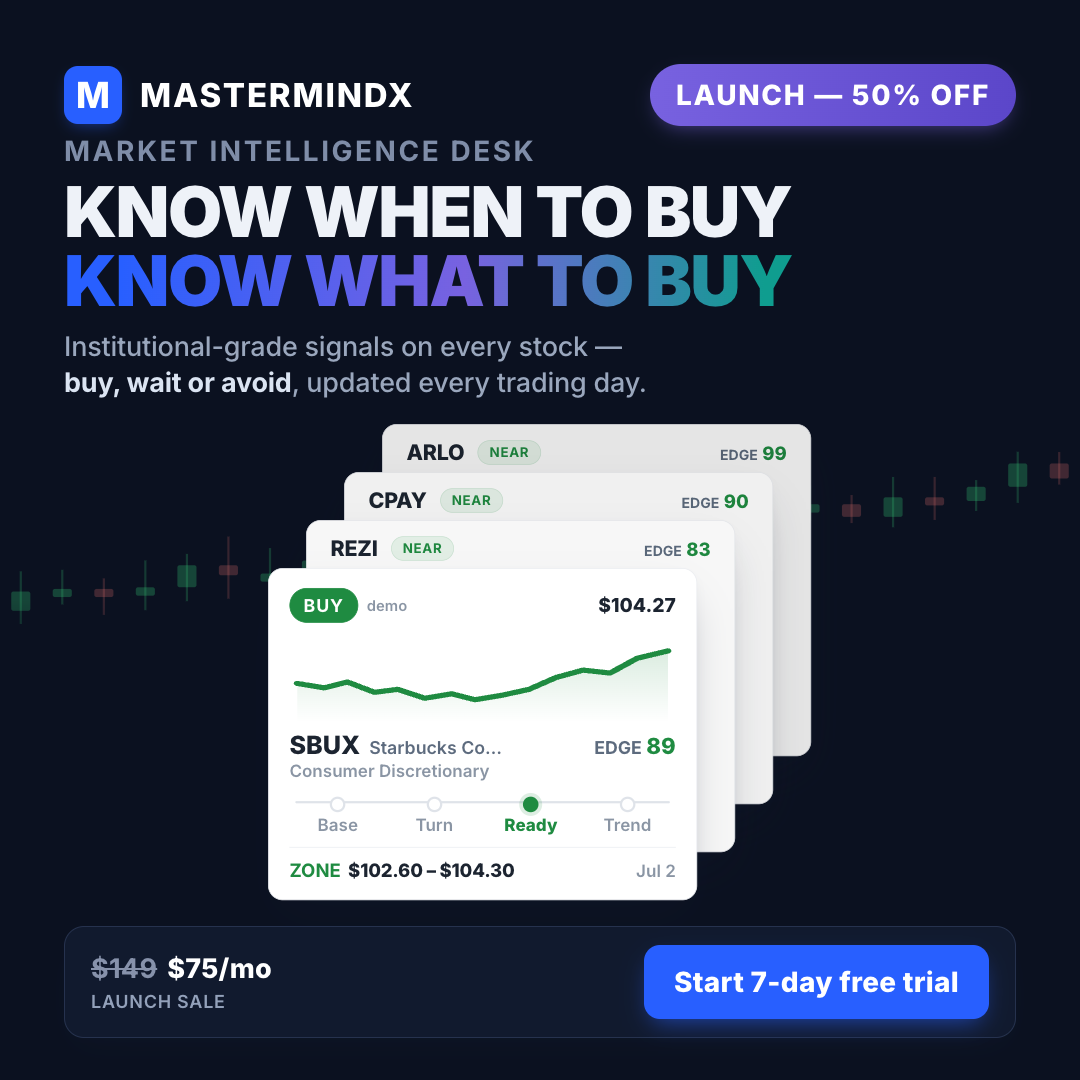
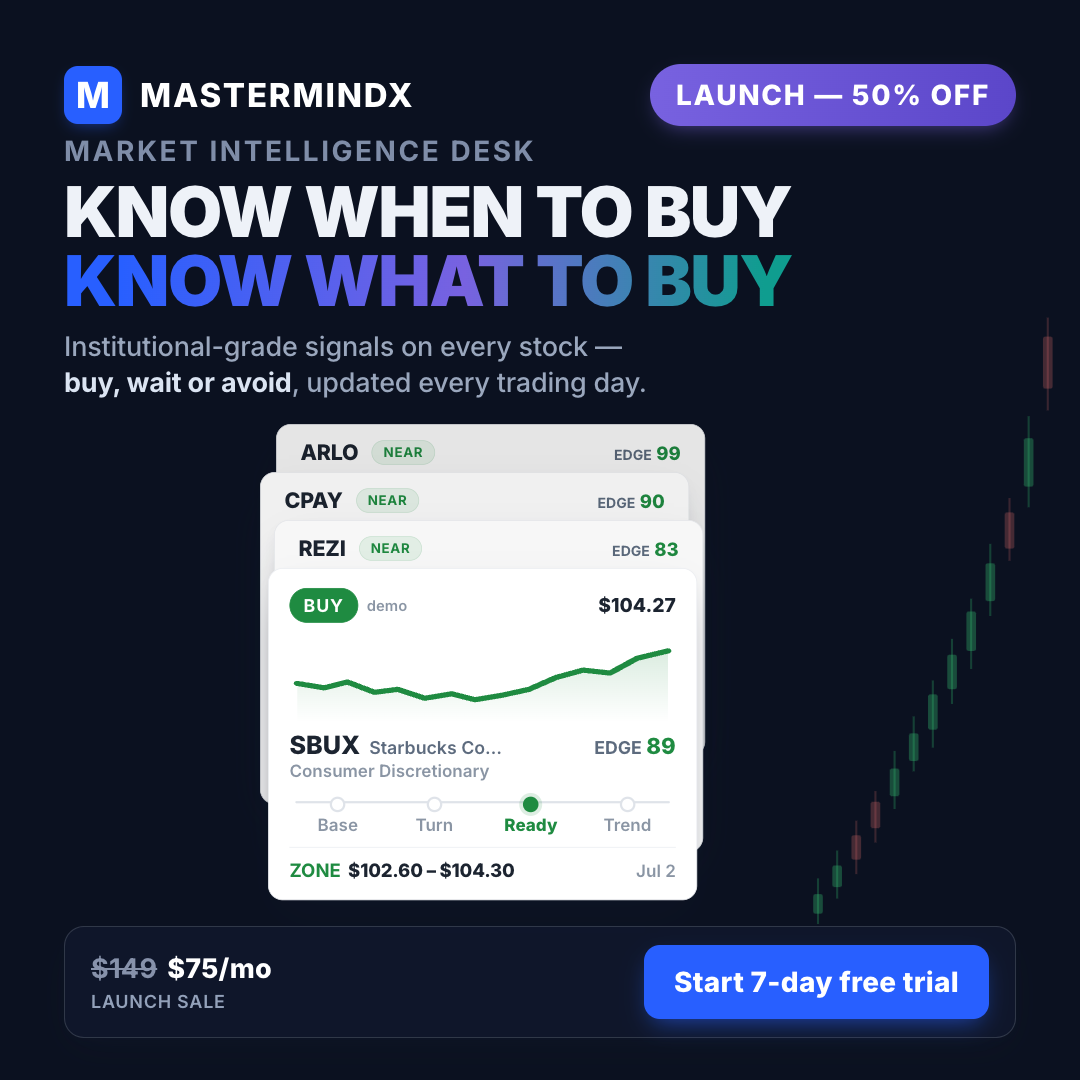
ads(round3.4): vertical deck fix, authored arc/column tapes, frosted offer, price-free trial variant
Operator R3.4 on the 1080 deck (diagonal steps read as different-size sheets) +
new orders: tape arcs toward bottom-left on the 628 and rides the free right
column on the 1080 (authored SVG paths, ~1/3 red), offer plate goes frosted
glass so the tape shows through, and a call-trial--{628,1080} variant pair
ships with NO price — single CTA '7-DAY FREE TRIAL + 50% OFF'. Corpus §9 R3.4.

diff --git a/mockups/refs/ad_central/round3/ads/call-trial--1080x1080.html b/mockups/refs/ad_central/round3/ads/call-trial--1080x1080.html
@@ -1,6 +1,6 @@
 <!doctype html>
 <meta charset="utf-8">
-<title>call — 1080x1080</title>
+<title>call-trial — 1080x1080</title>
 <link rel="stylesheet" href="../_ads.css">
 
 <style>
@@ -92,9 +92,8 @@
 
   </div>
 
-  <div class="offer" style="--offer:27px;margin:auto var(--pad) 42px;padding:18px 26px;background:rgba(17,26,46,.62);-webkit-backdrop-filter:blur(12px) saturate(1.2);backdrop-filter:blur(12px) saturate(1.2);border:1px solid rgba(255,255,255,.14)">
-    <div class="cell"><span class="t"><span class="was">$149</span>$75/mo</span><span class="d">LAUNCH SALE</span></div>
-    <span class="cta">Start 7-day free trial</span>
+  <div class="offer" style="margin:auto var(--pad) 42px;padding:0;background:transparent;border:none;box-shadow:none">
+    <span class="cta" style="display:block;width:100%;margin-left:0;text-align:center;font-size:33px;padding:28px">7-DAY FREE TRIAL + 50% OFF</span>
   </div>
 
 </div>

diff --git a/mockups/refs/ad_central/round3/ads/call-trial--1200x628.html b/mockups/refs/ad_central/round3/ads/call-trial--1200x628.html
@@ -1,6 +1,6 @@
 <!doctype html>
 <meta charset="utf-8">
-<title>call — 1200x628</title>
+<title>call-trial — 1200x628</title>
 <link rel="stylesheet" href="../_ads.css">
 
 <style>
@@ -95,9 +95,8 @@
 
   </div>
 
-  <div class="offer offer--stack" style="--offer:29px;margin:auto 0 36px 48px;width:604px;padding:22px 26px;background:rgba(17,26,46,.62);-webkit-backdrop-filter:blur(12px) saturate(1.2);backdrop-filter:blur(12px) saturate(1.2);border:1px solid rgba(255,255,255,.14)">
-    <div class="cell"><span class="t"><span class="was">$149</span>$75/mo</span><span class="d">LAUNCH SALE</span></div>
-    <span class="cta">Start 7-day free trial</span>
+  <div class="offer offer--stack" style="margin:auto 0 36px 48px;width:604px;padding:0;background:transparent;border:none;box-shadow:none">
+    <span class="cta" style="font-size:31px;padding:26px 30px">7-DAY FREE TRIAL + 50% OFF</span>
   </div>
 
 </div>

diff --git a/research/AD_MASTER_PAPER.md b/research/AD_MASTER_PAPER.md
@@ -331,6 +331,15 @@ Full copy blocks (subline, chips, illustration recipe) live beside the sources i
   "Institutional-grade signals on every stock — buy, wait or avoid, updated every
   trading day."; caption labels on illustrations rejected too — the composition alone
   must carry the story.
+- **R3.4 operator feedback (2026-08-02, late round)** — (a) a stack's 3D read comes
+  from same-size cards in a near-vertical pile (horizontal jitter ≤16px); wide diagonal
+  steps expose L-shaped flanks that read as different-size sheets; (b) background tapes
+  are **authored paths**, not rectangles — arc them through the composition's free
+  space (e.g. bottom-left sweep rising to the illustration), and let them pass behind a
+  **frosted-glass offer plate** (blur keeps text legible while the tape stays alive);
+  (c) a **price-free arm** joins the flagship test: same creative, single button
+  `7-DAY FREE TRIAL + 50% OFF` — price-anchor vs offer-only is a testable question,
+  not a taste ruling.
 - **R2 internal review (2026-07-28, caught before the operator saw them)** — the four
   defect classes that recur, now checked on every file: (a) **bottom clip** — vertical
   budget blown, offer/micro cut (risk 4:5, rotation 4:5, founding 628); (b) **auto-wrap

diff --git a/mockups/refs/ad_central/round3/SPECS.md b/mockups/refs/ad_central/round3/SPECS.md
@@ -48,6 +48,19 @@ anything without re-opening the brief.
 - **Lane de-emphasis (R3.3):** TAKE PROFITS and STAND ASIDE at 65% opacity so the eye
   lands on BUY NOW first.
 
+## R3.4 additions (operator, 2026-08-02 late)
+
+- **call 1080 deck**: true vertical pile — same-size cards, horizontal jitter ≤16px
+  (the ±38px diagonal read as different-size sheets and was rejected).
+- **Tapes are authored paths now**: the 628's tape is an ARC (bottom-left sweep,
+  passing behind the offer, climbing to the deck); the 1080's is a steep column in
+  the free right band (x≥800). Both bespoke SVGs in `assets/`.
+- **Frosted offer plate** on both call ads: `rgba(17,26,46,.62)` + backdrop blur —
+  the tape reads through it.
+- **`call-trial` variant pair** (A/B arm): identical creative, NO price — single
+  full-width CTA button `7-DAY FREE TRIAL + 50% OFF`. Launch flag retained (operator
+  may rule the double 50% redundant).
+
 ## Verification state
 
 - 4/4 renders exit-0 via `render.py` (exact sizes, Inter loaded), every PNG eyeballed
